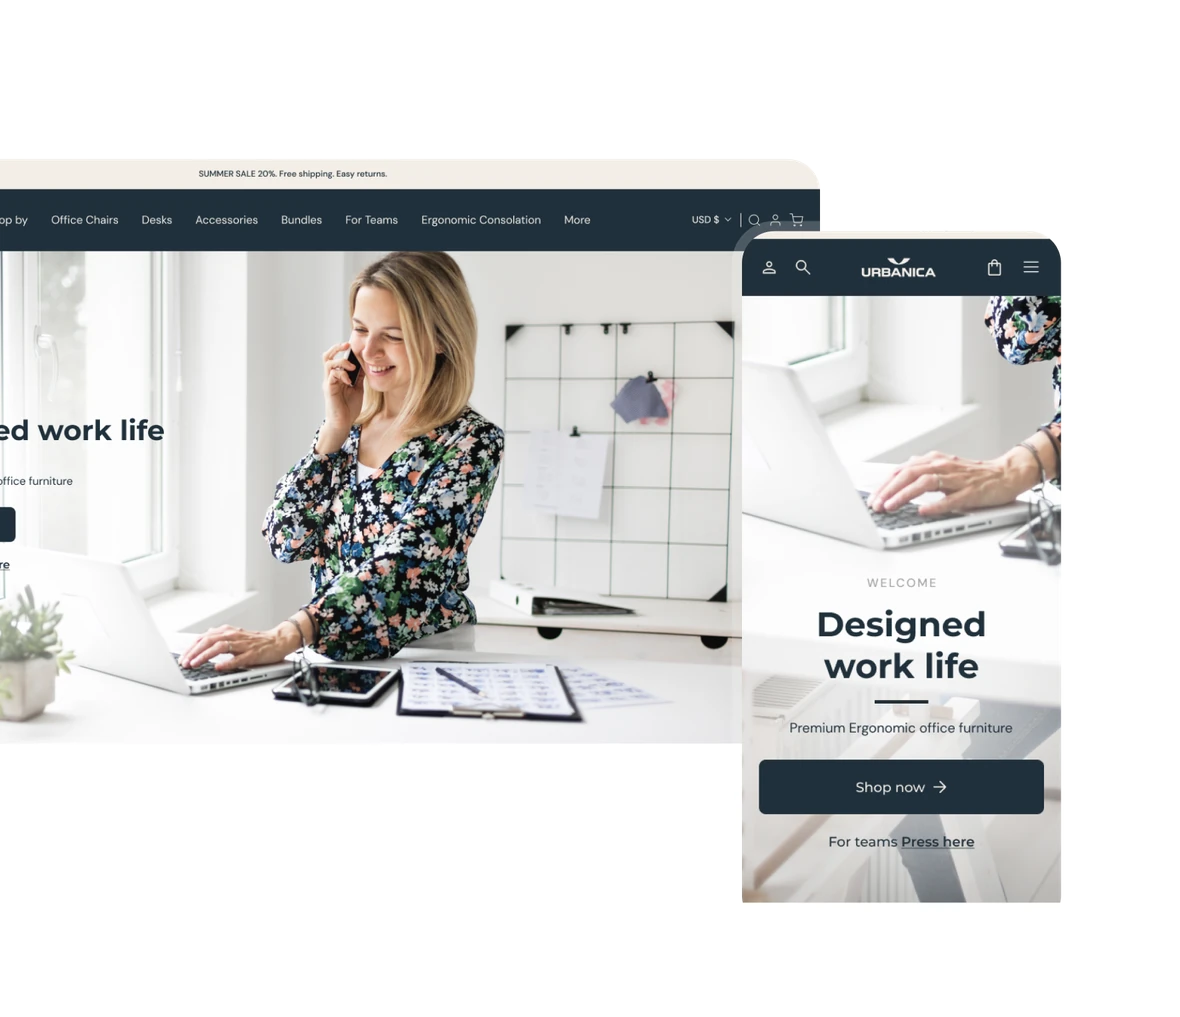
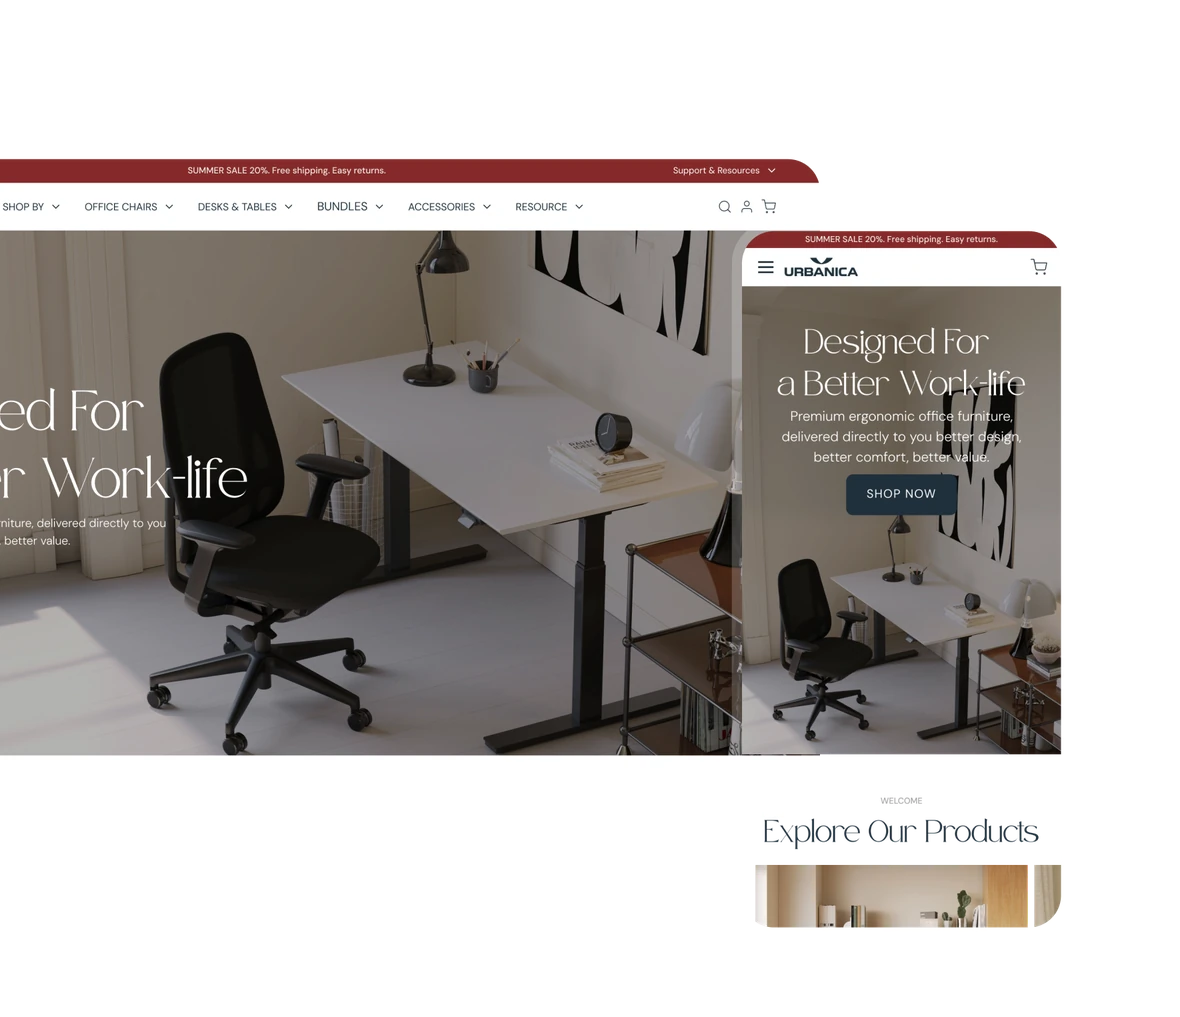
New Urbanica card image
Claude-Session: https://claude.ai/code/session_017cnx8SZ72KjrjU7SaVT4tj

diff --git a/src/data/cardColors.ts b/src/data/cardColors.ts
@@ -40,6 +40,6 @@ export const cardColors: Record<string, string> = {
   "images/cards/websites/terrasafe": "#d7d6f5",
   "images/cards/websites/the-code-of-creation": "#efe2dc",
   "images/cards/websites/the-morning-club": "#f6e9d5",
-  "images/cards/websites/urbanica": "#efe4dc",
+  "images/cards/websites/urbanica": "#efdcdc",
   "images/cards/websites/velora-site": "#d5f6f0"
 };
